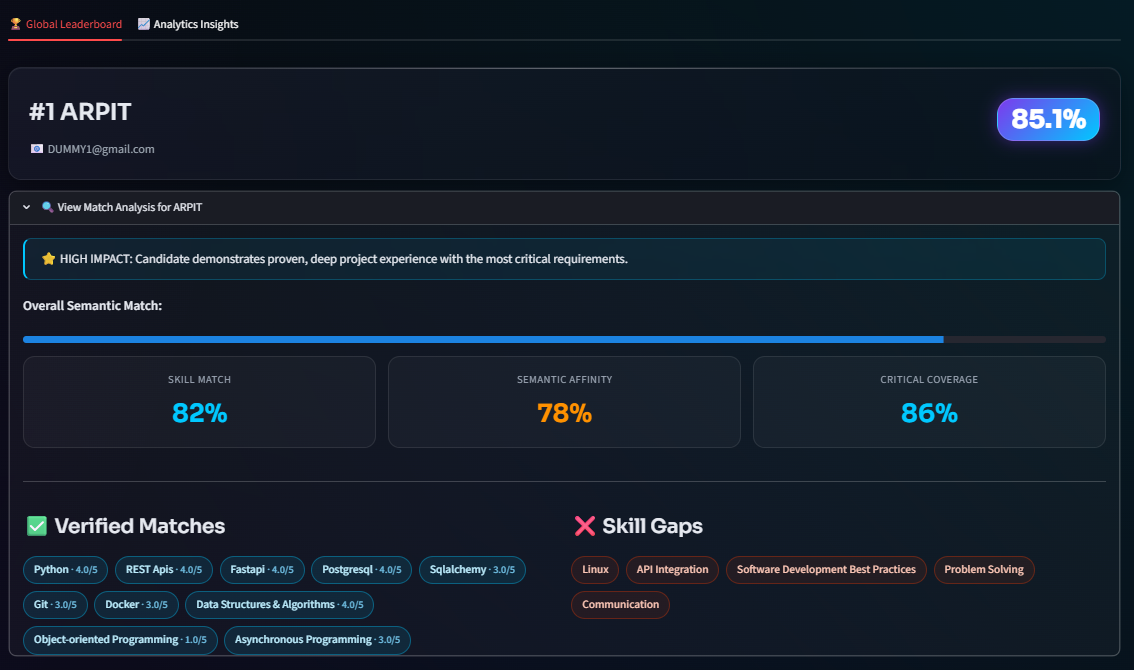
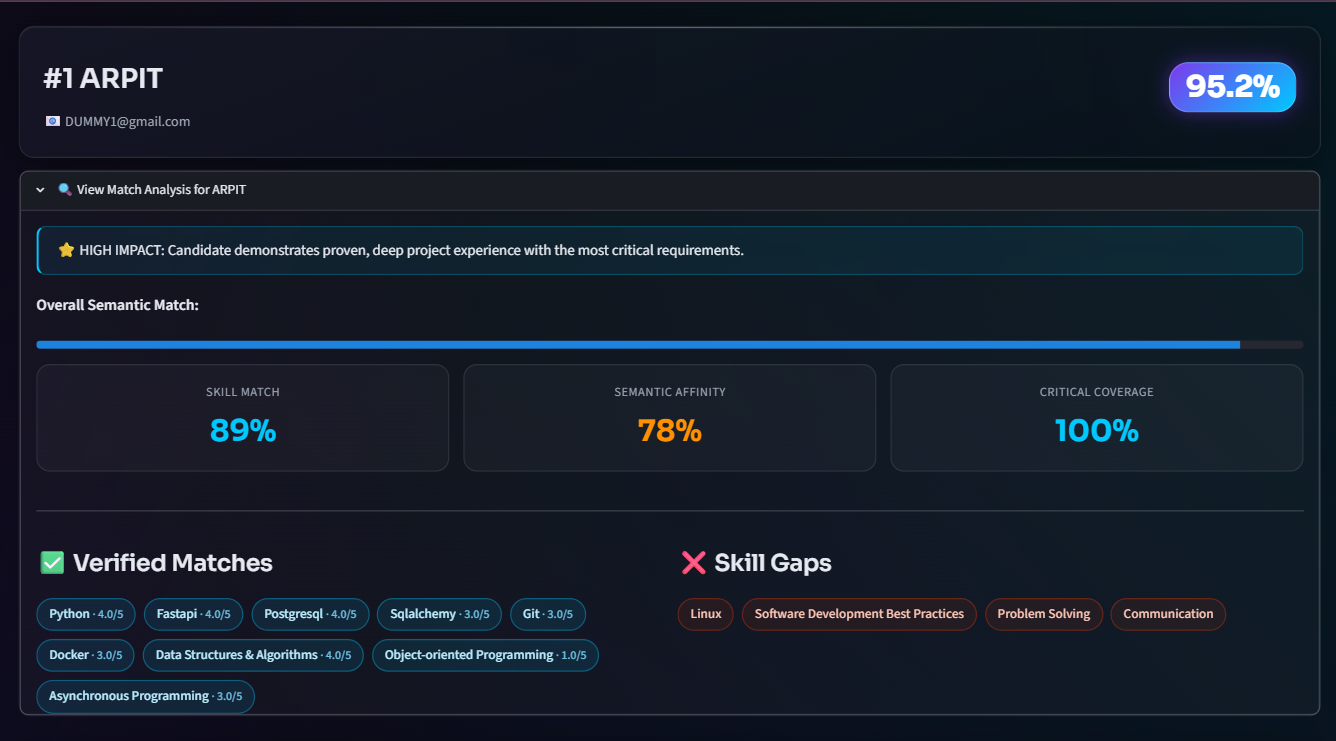
assets changed

diff --git a/backend/services/ranking_service.py b/backend/services/ranking_service.py
@@ -24,14 +24,34 @@ SKILL_ALIASES = {
     "csharp": "c#",
     "postgres": "postgresql",
     "problemsolving": "problem solving",
+    "dsa": "data structures & algorithms",
+    "api integration": "rest api",
+    "restful api": "rest api",
+    "restful apis": "rest api",
+    "rest apis": "rest api",
 }
 
-# Maps broad JD requirements to specific candidate skills (hierarchical match).
 SKILL_CATEGORIES = {
     "sql": ["sql", "mysql", "postgresql", "sqlite", "oracle", "sql server"],
     "orm": ["orm", "sqlalchemy", "hibernate", "prisma", "django orm"],
-    "problem solving": ["problem solving", "competitive programming", "algorithms", "data structures"],
-    "rest api": ["rest api", "fastapi", "flask", "django", "express", "api"],
+    "problem solving": [
+        "problem solving",
+        "competitive programming",
+        "algorithms",
+        "data structures",
+        "data structures & algorithms",
+        "dsa",
+    ],
+    "rest api": [
+        "rest api",
+        "fastapi",
+        "flask",
+        "django",
+        "express",
+        "api",
+        "api integration",
+        "rest apis",
+    ],
     "version control": ["version control", "git", "github", "gitlab", "bitbucket"],
     "aws": ["aws", "amazon web services", "ec2", "s3"],
     "authentication": ["authentication", "jwt", "oauth", "auth", "security"],
